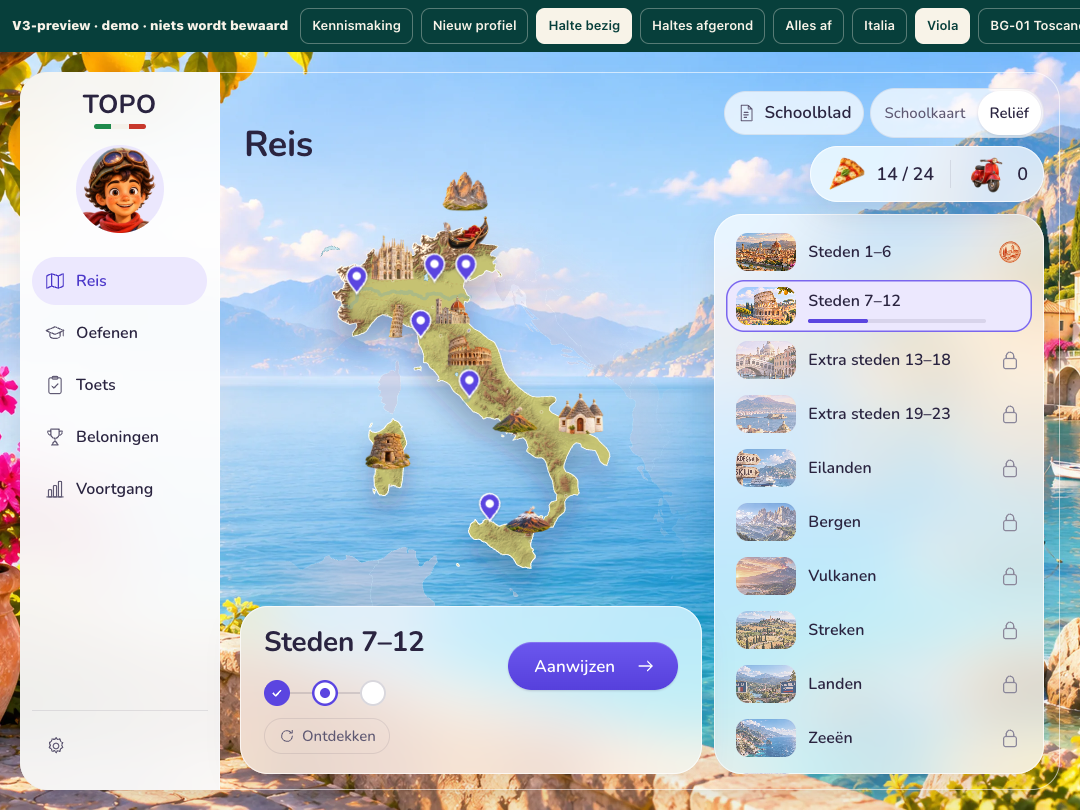
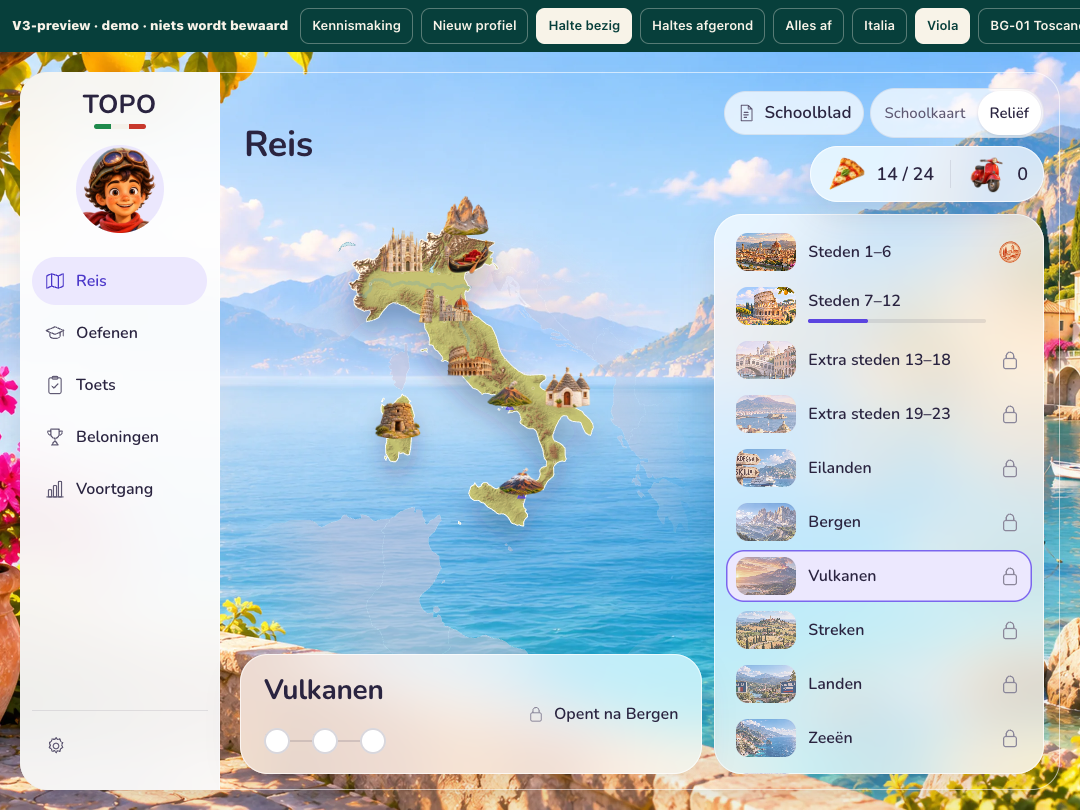
feat(v3): ronde 5 punt 1 — Reis-kaart op één schaal: twee vaste uitsneden (Italië; Italië en omgeving voor Landen en Zeeën)
De reservering onder de kaart is de hoogste hoofdstukkaart in de huidige stand (gemeten in een verborgen kopie),
zodat wisselen van hoofdstuk de schaal niet verandert. De overgang tussen de uitsneden glijdt in 450 ms; bij
verminderde beweging direct. QA: scripts/qa-v3-ronde5.py --point 1.

diff --git a/scripts/v3/reis.js b/scripts/v3/reis.js
@@ -69,7 +69,7 @@
  const listTitle=make('h2','v3SrOnly','Hoofdstukken');listTitle.id='v3ListTitle';const rows=make('ol','v3Rows');list.append(screenTitle,listTitle,rows);
  const main=make('section','v3Main');main.setAttribute('aria-labelledby','v3Title');
  const top=make('div','v3Top'),panel=make('div','v3Panel'),stage=make('div','v3MapStage');
- main.append(top,stage,panel);
+ main.append(top,stage,panel);const livePanel=panel;
  // Beloningen (richting B): a calm frame around the rich Reisboekje; counts come from the V2 state.
  const rewardsView=make('section','v3Rewards');rewardsView.setAttribute('aria-labelledby','v3RewardsTitle');
  // Further V3 views (Oefenen, Toets, Voortgang) share this window; shell.js fills them.
@@ -119,6 +119,9 @@
   const set=new Set(c?c.itemIds:[]);
   mapClone.querySelectorAll('[data-id]').forEach(n=>n.classList.toggle('v3Hit',set.has(n.getAttribute('data-id'))));
   mapClone.dataset.focus=c?(c.itemIds[0]?.startsWith('city')?'points':'areas'):'';
+  // Ronde 5 punt 1: two fixed frames, one scale. Italy (with Sicily and Sardinia) for every chapter; only the chapters
+  // whose items lie beyond Italy (OMGEVING: Landen, Zeeën) zoom out to "Italië en omgeving".
+  mapClone.dataset.frame=c&&OMGEVING.includes(c.id)?'omgeving':'italy';
   reserve();fit(mapClone);
  }
  /* Variant (a) Eiland: decoration layers on the Reis clone only (aria-hidden, no pointer events, no data-id; the
@@ -161,10 +164,12 @@
  }
  // Frame Italy and the chapter's places with a generous margin, then widen the frame to the stage's shape
  // inside the map canvas (890×1235), so neighbouring countries, seas and islands stay visible as reference.
- const CANVAS={w:890,h:1235},MARGIN=.14;
+ const CANVAS={w:890,h:1235},MARGIN=.14,OMGEVING=['countries','seas'];
  function fit(svg){
   try{
-   const parts=[...svg.querySelectorAll(svg.dataset.frame==='italy'?'.italy,.v3Isle':'.italy,.v3Hit')];if(!parts.length)return;
+   const fr0=svg.dataset.frame,parts=[...svg.querySelectorAll(fr0==='italy'||fr0==='omgeving'?'.italy,.v3Isle':'.italy,.v3Hit')];if(!parts.length)return;
+   // "Italië en omgeving": Italy plus every item of the OMGEVING chapters (neighbouring countries and seas), whichever is selected.
+   if(fr0==='omgeving')for(const id of ROUTE_CHAPTERS.filter(c=>OMGEVING.includes(c.id)).flatMap(c=>c.itemIds))svg.querySelectorAll('[data-id="'+id+'"]').forEach(n=>parts.push(n));
    let x0=Infinity,y0=Infinity,x1=-Infinity,y1=-Infinity;
    for(const p of parts){const b=p.getBBox();if(!b.width&&!b.height&&p.tagName!=='circle')continue;x0=Math.min(x0,b.x);y0=Math.min(y0,b.y);x1=Math.max(x1,b.x+b.width);y1=Math.max(y1,b.y+b.height);}
    if(!isFinite(x0))return;
@@ -177,11 +182,21 @@
     // over the map's bottom (Reis, afwerking 10-11) reserves --v3-fit-bottom px: Italy fits in the box above it.
     const r=svg.getBoundingClientRect(),fr=svg.querySelector('.v3FadeRect'),mk=fr?.parentNode,res=Math.min(r.height*.5,parseFloat(getComputedStyle(svg).getPropertyValue('--v3-fit-bottom'))||0);
     if(r.width&&r.height){const w=x1-x0,h=y1-y0,k=Math.max(w/r.width,h/(r.height-res)),bw=r.width*k,bh=r.height*k,bx=x0-(bw-w)/2,by=y0-((r.height-res)*k-h)/2;
-     svg.setAttribute('viewBox',[bx,by,bw,bh].map(v=>Math.round(v*10)/10).join(' '));
-     if(fr)for(const n of [fr,mk])for(const [a,v] of [['x',bx],['y',by],['width',bw],['height',bh]])n.setAttribute(a,v);
-     // The land's drop shadow in screen px (afwerking 10-11: 0 18px 24px rgba(42,36,64,.28)), in map units.
-     const ds=svg.querySelector('filter[id$="isleShadow"] feDropShadow');if(ds){ds.setAttribute('dy',(18*k).toFixed(1));ds.setAttribute('stdDeviation',(12*k).toFixed(1));}
-     drawPins(svg,k);window.TopoV3Landmarks?.(svg,k);}return;}
+     const box=v=>{svg._v3Shown=v;svg.setAttribute('viewBox',v.map(n=>Math.round(n*10)/10).join(' '));if(fr)for(const n of [fr,mk])['x','y','width','height'].forEach((a,i)=>n.setAttribute(a,v[i]));};
+     const settle=()=>{box([bx,by,bw,bh]);
+      // The land's drop shadow in screen px (afwerking 10-11: 0 18px 24px rgba(42,36,64,.28)), in map units.
+      const ds=svg.querySelector('filter[id$="isleShadow"] feDropShadow');if(ds){ds.setAttribute('dy',(18*k).toFixed(1));ds.setAttribute('stdDeviation',(12*k).toFixed(1));}
+      drawPins(svg,k);window.TopoV3Landmarks?.(svg,k);};
+     // A change between the two fixed frames glides (±450 ms); a refit within one frame, or reduced motion, is immediate.
+     // A refit during a glide (the card's resize) keeps gliding, from the box shown now, within the same 450 ms.
+     const kind=svg.dataset.frame||'',calm=matchMedia('(prefers-reduced-motion: reduce)').matches,busy=svg.dataset.gliding==='1'&&!calm;
+     const glide=busy||svg._v3Box&&svg._v3Kind&&svg._v3Kind!==kind&&!calm,from=svg._v3Shown||svg._v3Box;
+     cancelAnimationFrame(svg._v3Tween||0);svg._v3Box=[bx,by,bw,bh];svg._v3Kind=kind;
+     if(!glide){delete svg.dataset.gliding;settle();}
+     else{const t0=busy?svg._v3T0:performance.now(),to=svg._v3Box,ease=t=>t<.5?2*t*t:1-Math.pow(-2*t+2,2)/2,base=busy?svg._v3From:from;svg._v3T0=t0;svg._v3From=base;svg.dataset.gliding='1';
+      const step=now=>{const t=Math.min(1,(now-t0)/450);if(t<1){const e=ease(t);box(base.map((v,i)=>v+(to[i]-v)*e));svg._v3Tween=requestAnimationFrame(step);}else{delete svg.dataset.gliding;settle();}};
+      svg._v3Tween=requestAnimationFrame(step);}}
+    return;}
    const pad=Math.max(x1-x0,y1-y0)*MARGIN;x0=Math.max(0,x0-pad);y0=Math.max(0,y0-pad);x1=Math.min(CANVAS.w,x1+pad);y1=Math.min(CANVAS.h,y1+pad);
    // Match the stage aspect ratio by growing the shorter side, centred and clamped to the canvas.
    // Measure the free stage (any size set by an earlier fit is released first).
@@ -201,7 +216,13 @@
  }
  // The stage size changes with the layout (rotation, sidebar width): refit on resize.
  // The chapter card lies over the map's bottom where the CSS says so (--v3-card-over: 1): the map keeps it free.
- const reserve=()=>{const over=getComputedStyle(stage).getPropertyValue('--v3-card-over').trim()==='1';stage.style.setProperty('--v3-fit-bottom',over?Math.round(panel.getBoundingClientRect().height+24)+'px':'0px');};
+ // Ronde 5 punt 1: the reserve is the tallest card of any chapter in the current state (measured in a hidden copy, so focus
+ // and the live card stay put), so switching chapters never changes the map's scale.
+ const reserve=()=>{const over=getComputedStyle(stage).getPropertyValue('--v3-card-over').trim()==='1';
+  let hMax=0;if(over){const m=model(),probe=panel.cloneNode(false);probe.removeAttribute('id');probe.setAttribute('aria-hidden','true');probe.inert=true;
+   Object.assign(probe.style,{position:'absolute',visibility:'hidden',pointerEvents:'none',left:'0',top:'0',width:panel.getBoundingClientRect().width+'px'});panel.after(probe);
+   try{for(const c of m.chapters){renderPanel(m,c,probe);hMax=Math.max(hMax,probe.getBoundingClientRect().height);}}finally{probe.remove();}}
+  stage.style.setProperty('--v3-fit-bottom',over?Math.round(Math.max(hMax,panel.getBoundingClientRect().height)+24)+'px':'0px');};
  if('ResizeObserver' in window){const ro=new ResizeObserver(()=>{reserve();if(mapClone)fit(mapClone);});ro.observe(stage);ro.observe(panel);}
 
  // Top of the map column: the map tools (Schoolblad, Schoolkaart | Reliëf) left, the counters right with line icons.
@@ -244,10 +265,10 @@
 
  // The chapter card (R-reis-ijk): title, three step dots, one pill; replays quietly below. No scene header (the rows
  // carry the scenes).
- function renderPanel(m,c){
+ function renderPanel(m,c,panel=livePanel){
   panel.replaceChildren();if(!c)return;
   // tabindex -1: on phone, focus moves here after choosing a chapter (Hermes V3-03).
-  const h=make('h2','v3CardTitle');h.id='v3Title';h.tabIndex=-1;
+  const h=make('h2','v3CardTitle');if(panel===livePanel)h.id='v3Title';h.tabIndex=-1;
   h.append(make('span','v3SrOnly','Hoofdstuk '+(c.index+1)+': '),range(c.title));
   const head=make('div','v3CardHead');head.append(h);
   const segs=make('div','v3StageBar');segs.setAttribute('role','list');segs.setAttribute('aria-label','Lessen');

diff --git a/scripts/qa-v3-ronde5.py b/scripts/qa-v3-ronde5.py
@@ -1,0 +1,76 @@
+#!/usr/bin/env python3
+"""Targeted Round 5 screen checks (docs/v3/OVERDRACHT.md › Ronde 5); desktop 1440×900 and iPad 1080×810,
+overwriting the final evidence screenshots. One point per run: --point N."""
+import argparse,asyncio,hashlib,importlib.util,json,pathlib
+from playwright.async_api import async_playwright
+ROOT=pathlib.Path(__file__).resolve().parent.parent
+OUT=ROOT/'docs/qa/v3-stijlbeeld/final'
+spec=importlib.util.spec_from_file_location('screen',ROOT/'scripts/qa-v3-afwerking.py');q=importlib.util.module_from_spec(spec);spec.loader.exec_module(q)
+q.HTML=ROOT/'output/html/TOPO-V3-Reis-Preview.html'
+VIEWPORTS={'desktop':(1440,900),'ipad-liggend':(1080,810)}
+
+# Point 1: per chapter the Reis viewBox, Italy's on-screen box and the card's top.
+FRAME='''async id=>{
+ TOPO_V3.ui.selected=id;TOPO_V3.render();await new Promise(r=>setTimeout(r,650));
+ const svg=document.querySelector('.v3MapStage .v3Map'),it=svg.querySelector('.italy').getBoundingClientRect(),isl=[...svg.querySelectorAll('.v3Isle')].map(n=>n.getBoundingClientRect());
+ const b=[it,...isl].reduce((a,r)=>({l:Math.min(a.l,r.left),t:Math.min(a.t,r.top),r:Math.max(a.r,r.right),b:Math.max(a.b,r.bottom)}),{l:1e9,t:1e9,r:-1e9,b:-1e9});
+ const st=document.querySelector('.v3Reis .v3MapStage').getBoundingClientRect(),card=document.querySelector('.v3Reis .v3Main>.v3Panel').getBoundingClientRect();
+ return {id,frame:svg.dataset.frame,viewBox:svg.getAttribute('viewBox'),italyH:Math.round(b.b-b.t),italyW:Math.round(b.r-b.l),
+  clearOfCard:b.b<=card.top+1,inStage:b.t>=st.top-1&&b.l>=st.left-1&&b.r<=st.right+1,stageH:Math.round(st.height),stageW:Math.round(st.width),
+  freeH:Math.round(st.height-parseFloat(getComputedStyle(document.querySelector('.v3Reis .v3MapStage')).getPropertyValue('--v3-fit-bottom')))};
+}'''
+
+async def check(p,n,touch,vp):
+ shots=[]
+ if n==1:
+  ids=await p.evaluate('ROUTE_CHAPTERS.map(c=>c.id)');out={}
+  for st in ('bezig','alles'):
+   await p.goto(q.HTML.as_uri()+'#'+st+'/bg03');await p.wait_for_timeout(700)
+   rows=[await p.evaluate(FRAME,i) for i in ids]
+   it=[r for r in rows if r['frame']=='italy'];om=[r for r in rows if r['frame']=='omgeving']
+   assert sorted(r['id'] for r in om)==['countries','seas'],rows
+   # One scale: every Italy chapter has the same viewBox, and so do the two context chapters.
+   assert len({r['viewBox'] for r in it})==1 and len({r['viewBox'] for r in om})==1,rows
+   assert all(r['clearOfCard'] and r['inStage'] for r in it),rows
+   # As large as possible: Italy (4 % margin) fills the free height above the tallest card, or the stage's width.
+   r0=it[0];assert r0['italyH']>=.9*r0['freeH'] or r0['italyW']>=.9*r0['stageW'],r0
+   assert om[0]['italyH']<it[0]['italyH'],(om[0],it[0])
+   out[st]={'italy':it[0],'omgeving':om[0]}
+  # The glide: mid-way between the frames the viewBox is in between; with reduced motion the switch is immediate.
+  await p.goto(q.HTML.as_uri()+'#bezig/bg03');await p.wait_for_timeout(700)
+  await p.evaluate(FRAME,'city1')
+  mid=await p.evaluate('async()=>{TOPO_V3.ui.selected="countries";TOPO_V3.render();await new Promise(r=>setTimeout(r,200));const s=document.querySelector(".v3MapStage .v3Map");return [s.dataset.gliding||"",s.getAttribute("viewBox")]}')
+  assert mid[0]=='1' and mid[1] not in (out['bezig']['italy']['viewBox'],out['bezig']['omgeving']['viewBox']),mid
+  await p.emulate_media(reduced_motion='reduce')
+  now=await p.evaluate('()=>{TOPO_V3.ui.selected="city2";TOPO_V3.render();const s=document.querySelector(".v3MapStage .v3Map");return [s.dataset.gliding||"",s.getAttribute("viewBox")]}')
+  assert now==['',out['bezig']['italy']['viewBox']],now
+  await p.emulate_media(reduced_motion='no-preference')
+  await p.evaluate(FRAME,'volcanoes');await p.evaluate('document.activeElement?.blur?.()');await p.mouse.move(1,1);await p.wait_for_timeout(300)
+  await p.screenshot(path=str(OUT/f'reis-{vp}.png'));shots.append('reis')
+  await p.evaluate(FRAME,'countries');await p.mouse.move(1,1);await p.wait_for_timeout(300)
+  await p.screenshot(path=str(OUT/f'reis-omgeving-{vp}.png'));shots.append('reis-omgeving')
+  return shots,out
+ raise SystemExit('unknown point')
+
+async def main(point):
+ initial=hashlib.sha256(q.HTML.read_bytes()).hexdigest();runs={}
+ async with async_playwright() as pw:
+  b=await pw.chromium.launch(executable_path=q.MAC_CHROME)
+  for vp,(w,h) in VIEWPORTS.items():
+   c=await b.new_context(viewport={'width':w,'height':h},has_touch=vp!='desktop');p=await c.new_page();errors=[];p.on('pageerror',lambda e:errors.append(str(e)))
+   await (await c.new_cdp_session(p)).send('Emulation.setEmulatedMedia',{'features':[{'name':'prefers-reduced-transparency','value':'no-preference'}]})
+   await p.goto(q.HTML.as_uri()+'#bezig/bg03');await p.wait_for_timeout(650)
+   try:shots,detail=await check(p,point,vp!='desktop',vp)
+   except Exception:
+    print('Point',point,'failed at viewport',vp,flush=True)
+    raise
+   assert not errors,errors
+   runs[vp]={'viewport':[w,h],'screens':shots,'detail':detail};await c.close()
+  await b.close()
+ assert initial==hashlib.sha256(q.HTML.read_bytes()).hexdigest()
+ path=OUT/'ronde5.json';data=json.loads(path.read_text()) if path.exists() else {};data[str(point)]={'previewSha256':initial,'runs':runs,'pass':True};path.write_text(json.dumps(data,indent=2)+'\n')
+ print('Ronde 5 punt',point,'PASS',flush=True)
+
+if __name__=='__main__':
+ parser=argparse.ArgumentParser();parser.add_argument('--point',type=int,choices=range(1,10),required=True);args=parser.parse_args()
+ asyncio.run(main(args.point))
